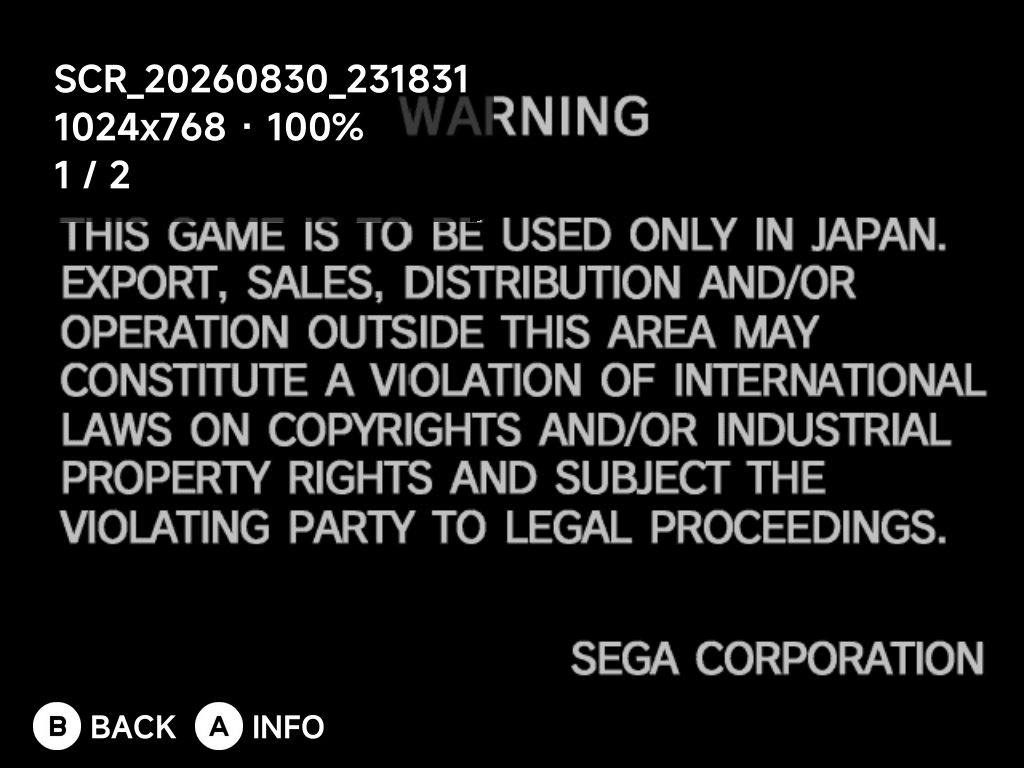
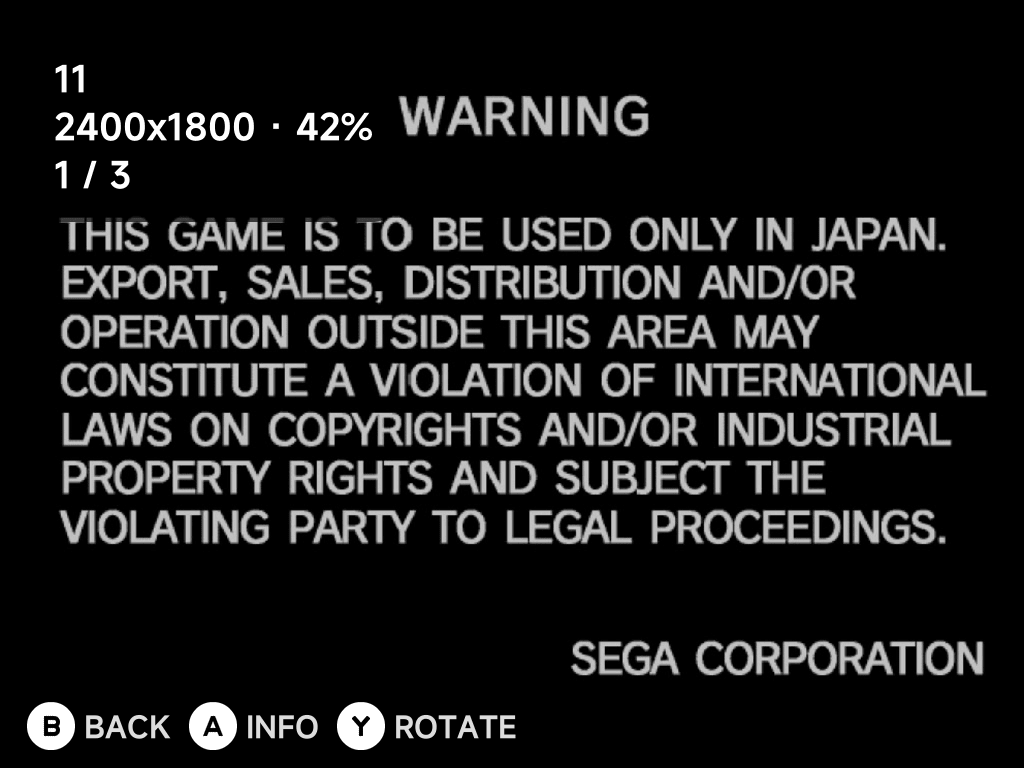
docs(image-viewer): Y rotates the image and saves it to the file

diff --git a/docs/handheld/apps/image-viewer.md b/docs/handheld/apps/image-viewer.md
@@ -39,6 +39,7 @@ default:
 | `Up` / `Down` | — | Pan |
 | `R1` / `L1` | Zoom in | Zoom in / out (out of the first step returns to fit) |
 | `A` | Toggle the info overlay | Toggle the info overlay |
+| `Y` | Rotate 90° clockwise | Rotate 90° clockwise (returns to fit size) |
 | `B` | Back to the browser | Back to fit size, then back to the browser |
 
 Zoom steps through **fit → 100% → 200% → 400%**.
@@ -49,6 +50,26 @@ your position among the folder's images (e.g. `1 / 2`).
 ??? info "More detail"
     Zoom skips any step that wouldn't enlarge the image past its fit size,
     so a small image goes straight from fit to the first larger step.
+
+## Rotate
+
+Press `Y` in the fullscreen viewer to turn the image 90° clockwise. Press it
+again to keep turning (180°, 270°, back to the start).
+
+![Image Viewer showing a rotated screenshot](../../assets/screenshots/imageviewer-rotated.png)
+
+The rotation is saved to the file itself, so the picture stays rotated
+when you open it again and when you copy it to a computer. This is handy
+for screenshots of games you play holding the device sideways.
+
+- The file is saved a second after your last `Y` press, or straight away
+  when you move to another image or press `B`.
+- `jpg`, `jpeg`, `bmp` and `gif` files are re-saved through FFmpeg. JPG
+  screenshots are re-encoded at the same high quality the OSD uses, so there
+  is a very small quality loss; animated GIFs keep all their frames.
+- `png` files are re-saved without any loss.
+- If saving fails, a "Couldn't save rotation" message appears and the
+  original file is left as it was.
 
 ## Rename & Delete
 
